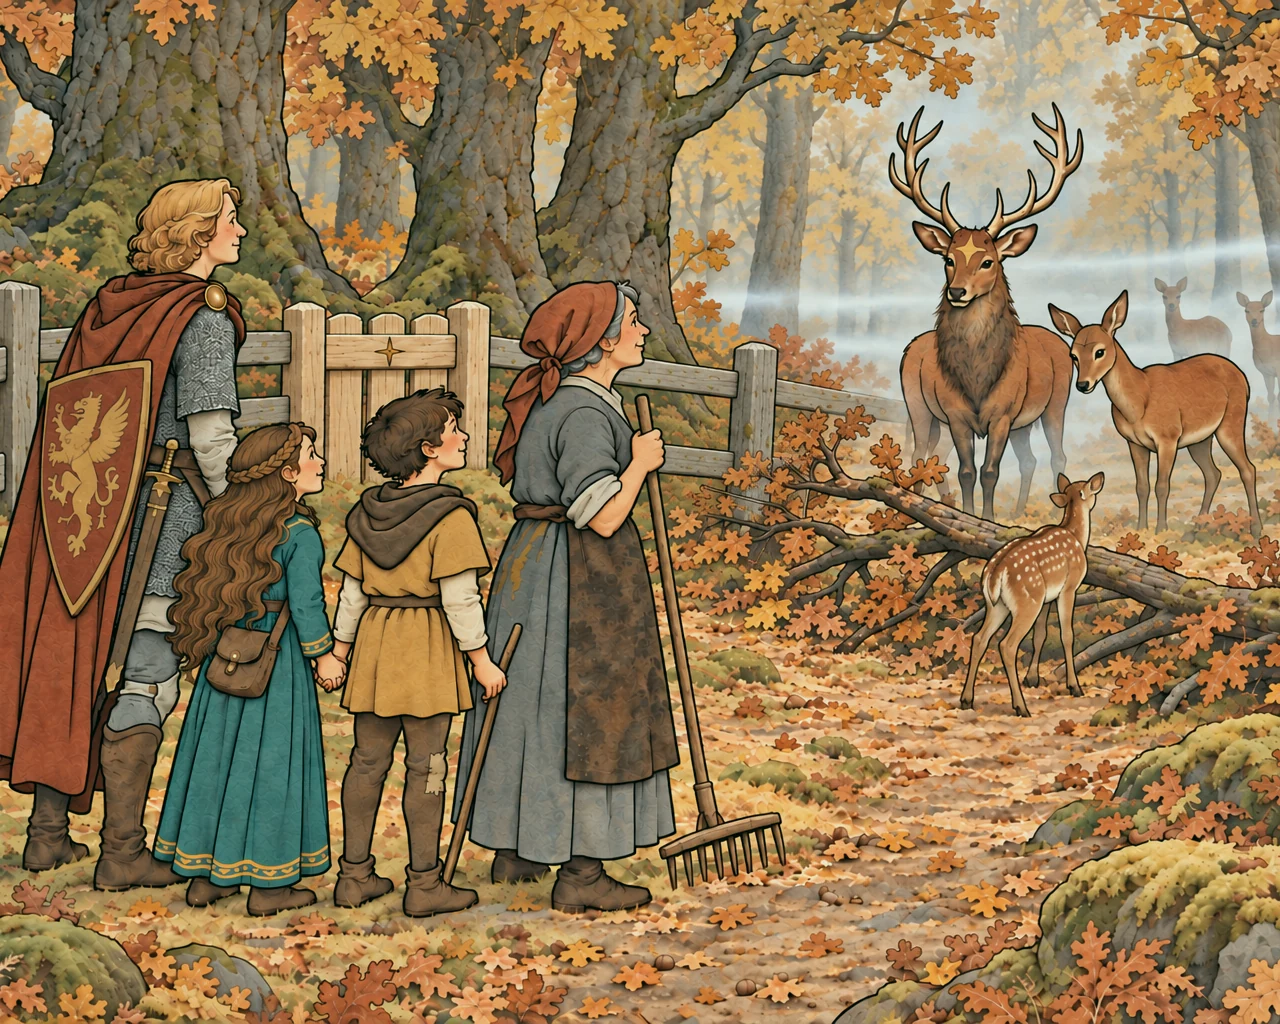
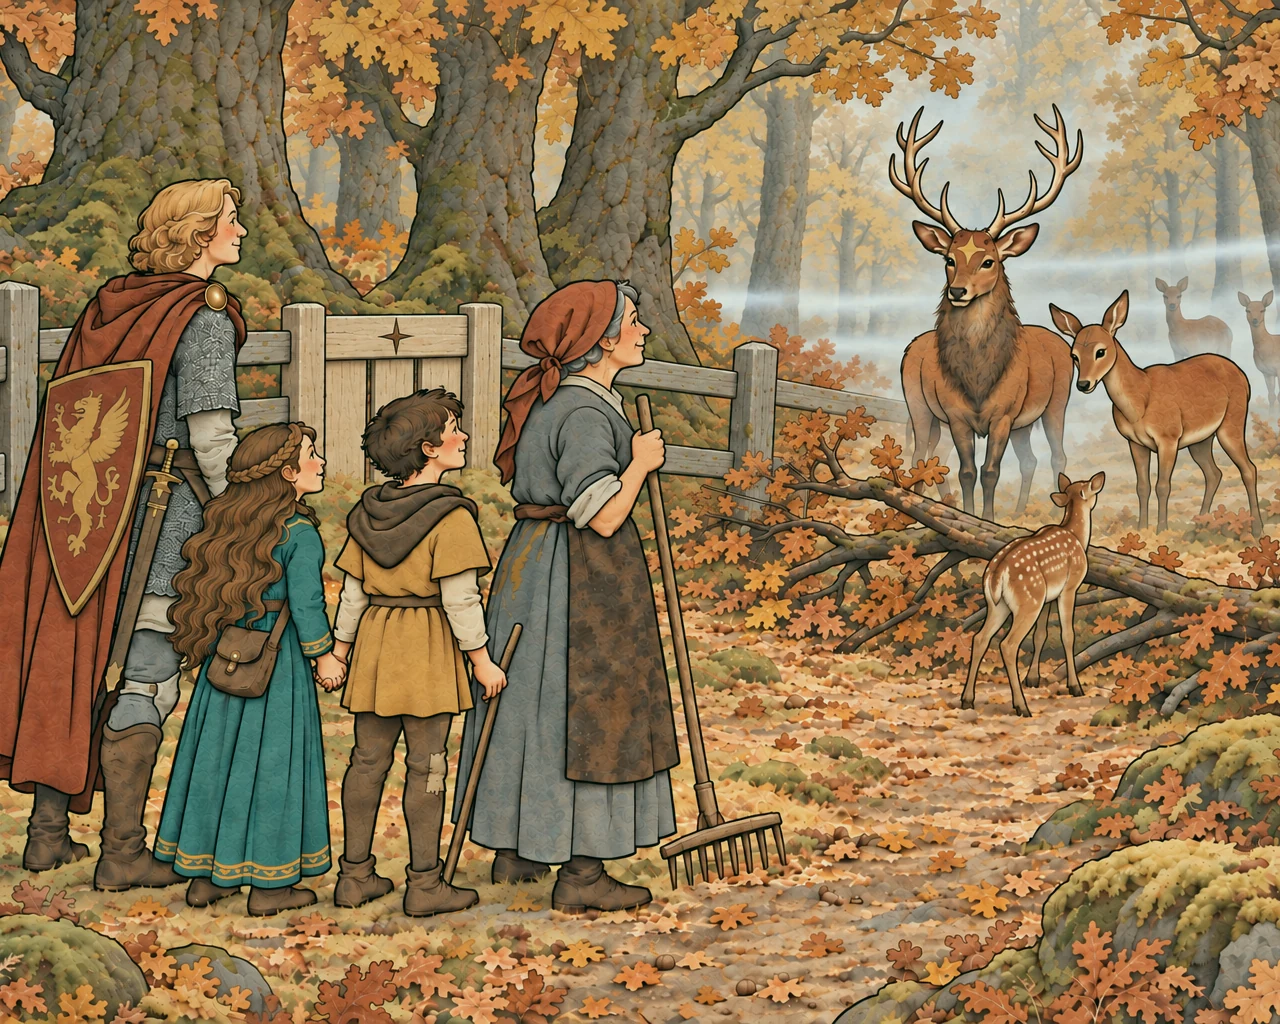
Forest fourth pass after fresh review: carved stars, one gate design, one satchel
Each take changed one region and only that region ships (composites noted in the builder):
p7 the old gate's star split by its crack, Oliwia with one satchel; p8 and p9 help-fawn gates in the
p7 design with a carved, not gold, star; p4 the broken gate's star carved; p10 make-way gate star
recoloured from gold to a groove. Alt texts for p3 follow-piglets (the gate lies on the ground) and p6
(Oliwia thinking) follow the pictures.

diff --git a/src/book/pages.js b/src/book/pages.js
@@ -132,7 +132,7 @@ export const moonhillSpreads = [
 
 // Tale three. The oath's star is carved on one thing only, the crossbar of the Matecznik's gate
 // (docs/DECISIONS.md).
-const p3FollowPiglets = img(`${FO}/p3-follow-piglets.webp`, "Świnki wbiegają przez otwartą furtkę do Matecznika, gdzie stoi Marcin; wyłamana furtka z pękniętą gwiazdką leży w trawie, a Oliwia klęczy z pustą czapeczką żołędzia na dłoni.", "The piglets trot through the open gateway into the Heartwood, where Marcin stands; the broken gate with its cracked star lies in the grass, and Oliwia kneels with an empty acorn cup in her palm.");
+const p3FollowPiglets = img(`${FO}/p3-follow-piglets.webp`, "Świnki wbiegają do Matecznika tam, gdzie stała furtka, a w środku stoi Marcin; wyłamana furtka z pękniętą gwiazdką leży w trawie, a Oliwia klęczy z pustą czapeczką żołędzia na dłoni.", "The piglets trot through the open gateway into the Heartwood, where Marcin stands; the broken gate with its cracked star lies in the grass, and Oliwia kneels with an empty acorn cup in her palm.");
 const p5AskKindly = img(`${FO}/p5-ask-kindly.webp`, "Marcin z ręką na piersi mówi prawdę, Oliwia trzyma go za rękę, Agata kładzie mu dłoń na ramieniu, a Gustaw podnosi wyłamaną furtkę z pękniętą gwiazdką.", "Marcin, a hand on his chest, tells the truth; Oliwia holds his hand, Agata rests hers on his shoulder, and Gustaw lifts the broken gate with its cracked star.");
 const p7GiveSack = img(`${FO}/p7-give-sack.webp`, "Oliwia i Agata sypią żołędzie przez płot, Koniczynka niesie worek Marcina, Gustaw trzyma nową furtkę, a Marcin wycina na jej poprzeczce gwiazdkę dłutkiem i drewnianym młotkiem; obok stoi stara furtka z pękniętą gwiazdką.", "Oliwia and Agata pour acorns over the fence, Koniczynka carries Marcin's sack, Gustaw holds the new gate, and Marcin carves a star on its crossbar with a chisel and a wooden mallet; the old gate with its cracked star leans beside him.");
 const p9MakeWay = img(`${FO}/p9-make-way.webp`, "Jeleń z gwiazdką idzie ścieżką, mgła rozstępuje się przed nim, a za nim idą Oliwia i Marcin ręka w rękę, Gustaw z Koniczynką i Agata; łanie skubią żołędzie w Mateczniku za nową furtką.", "The star stag walks down the path as the mist parts before it; behind it come Oliwia and Marcin hand in hand, Gustaw with Koniczynka, and Agata; the hinds graze on acorns in the Heartwood beyond the new gate.");
@@ -145,7 +145,7 @@ export const forestSpreads = [
   { page: 3, tailpiece: `${OR}/strawberry-snail.webp`, variantFrom: 2, images: { "follow-piglets": p3FollowPiglets, "call-back": img(`${FO}/p3-call-back.webp`, "Marcin stoi ze spuszczoną głową przy wyłamanej furtce Matecznika, świnki kręcą się przy nim; Oliwia klęczy z pustą czapeczką żołędzia na dłoni.", "Marcin stands with his head bowed by the Heartwood's broken gate, the piglets around him; Oliwia kneels with an empty acorn cup in her palm.") } },
   { page: 4, tailpiece: `${OR}/columbine-hare.webp`, images: { default: img(`${FO}/p4.webp`, "Zawstydzony Marcin przy wyłamanej furtce; Oliwia bierze go za rękę, a świnki chowają się za jego nogami.", "Ashamed, Marcin stands by the broken gate; Oliwia takes his hand while the piglets hide behind his legs.") } },
   { page: 5, tailpiece: `${OR}/owl-hazel.webp`, variantFrom: 4, images: { "ask-kindly": p5AskKindly, "show-tracks": img(`${FO}/p5-show-tracks.webp`, "Oliwia klęczy i pokazuje ślady raciczek w ziemi; Marcin z ręką na piersi mówi prawdę, Agata trzyma dłoń na jego ramieniu, a Gustaw podnosi wyłamaną furtkę.", "Oliwia kneels and points to the little hoofprints in the earth; Marcin, a hand on his chest, tells the truth, Agata's hand on his shoulder, and Gustaw lifts the broken gate.") } },
-  { page: 6, tailpiece: `${OR}/fleuron.webp`, images: { default: img(`${FO}/p6.webp`, "Agata opiera dłoń o wyłamaną furtkę z pękniętą gwiazdką; Marcin, Oliwia i Gustaw patrzą na świnki, które w szronie znajdują tylko puste czapeczki.", "Agata rests her hand on the broken gate with its cracked star; Marcin, Oliwia and Gustaw watch the piglets find only empty cups in the frost.") } },
+  { page: 6, tailpiece: `${OR}/fleuron.webp`, images: { default: img(`${FO}/p6.webp`, "Agata opiera dłoń o wyłamaną furtkę z pękniętą gwiazdką; Marcin i Gustaw patrzą na świnki, które w szronie znajdują tylko puste czapeczki, a Oliwia z palcem przy brodzie się zastanawia.", "Agata rests her hand on the broken gate with its cracked star; Marcin and Gustaw watch the piglets find only empty cups in the frost, while Oliwia thinks, a finger on her chin.") } },
   { page: 7, tailpiece: `${OR}/oak-wren.webp`, variantFrom: 6, images: { "give-sack": p7GiveSack, "gather-forest": img(`${FO}/p7-gather-forest.webp`, "Oliwia sypie przez płot żołędzie z torby, a Agata z fartucha; Gustaw trzyma nową furtkę, a Marcin wycina na jej poprzeczce gwiazdkę dłutkiem i drewnianym młotkiem; obok stoi stara furtka z pękniętą gwiazdką.", "Oliwia pours acorns over the fence from her satchel and Agata from her apron; Gustaw holds the new gate while Marcin carves a star on its crossbar with a chisel and a wooden mallet; the old gate with its cracked star leans beside him.") } },
   { page: 8, tailpiece: `${OR}/strawberry-snail.webp`, images: { default: img(`${FO}/p8.webp`, "Z mgły wychodzi jeleń ze złotą gwiazdką i łania; złamany konar odciął od nich jelonka, który stoi sam po tej stronie, a wszyscy patrzą z zachwytem przy nowej furtce; Agata trzyma grabie.", "Out of the mist step the stag with a gold star and the doe; a fallen branch has cut the fawn off from them and it stands alone on this side, while everyone watches in wonder by the new gate, Agata holding her rake.") } },
   { page: 9, tailpiece: `${OR}/hedgehog-clover.webp`, variantFrom: 8, images: { "make-way": p9MakeWay, "help-fawn": img(`${FO}/p9-help-fawn.webp`, "Jeleń z gwiazdką prowadzi ścieżką łanię i jelonka, za nimi idą Oliwia i Marcin ręka w rękę, Gustaw z Koniczynką i Agata; odciągnięty konar leży z boku ścieżki, a w oddali stoi nowa furtka Matecznika.", "The star stag leads the doe and the fawn down the path, followed by Oliwia and Marcin hand in hand, Gustaw with Koniczynka, and Agata; the pulled-away branch lies at the side of the trail, and the Heartwood's new gate stands in the distance.") } },

diff --git a/prototypes/prompts/_build_forest.py b/prototypes/prompts/_build_forest.py
@@ -403,9 +403,40 @@ for pid, old, new, extra in [("fo-p9-make-way", "fo-p9-make-waye", "fo-p9-make-w
           neg=NO_OLD_GATE)
 
 
+# Fourth pass (fresh review of the shipped pictures). The whole-picture regenerations kept drifting the
+# gate, so each take now changes ONE thing and only that region is pasted back into the shipped take
+# (scratchpad composite, like gather-forestc): the rest of every picture stays pixel for pixel.
+CARVED = "the star is a cut groove in the wood, darker brown in its shadow, the same colour family as the wood; never gold, never raised, never painted"
+again("fo-p7-give-sack", "fo-p7-give-sackf", "fo-p7-give-sackg", "everything except the old grey gate's crossbar",
+      "On the OLD grey gate leaning at the right, its crossbar clearly shows the old carved four-pointed star, and the crack runs right THROUGH the middle of that star, splitting it into two halves (" + CARVED + ").",
+      neg="no old gate without a star")
+again("fo-p7-gather-forest", "fo-p7-gather-forestb", "fo-p7-gather-forestd", "everything except Oliwia's bags",
+      "Oliwia has exactly ONE leather satchel on a strap across her body: she has swung it forward over the rail and pours the acorns out of it; there is no second bag at her hip.",
+      neg="no second bag on Oliwia")
+again("fo-p8", "fo-p8f", "fo-p8g", "everything except the new gate in the fence",
+      NEW_GATE + "; the planks end UNDER the crossbar, which closes the gate's top; " + CARVED + ".",
+      neg="no gold star on the gate; no rounded or pointed planks; no planks rising above the crossbar")
+again("fo-p9-help-fawn", "fo-p9-help-fawnc", "fo-p9-help-fawnd", "everything except the new gate in the fence",
+      NEW_GATE + "; the planks end UNDER the crossbar, which closes the gate's top; " + CARVED + ".",
+      neg="no gold star on the gate; no planks rising above the crossbar")
+again("fo-p4", "fo-p4d", "fo-p4e", "everything except the star on the broken gate's crossbar",
+      "The star on the broken gate is the old carved four-pointed star (" + CARVED.replace("brown", "grey-brown") + "), and the crack in the crossbar runs right THROUGH the middle of the star, splitting it into two halves.",
+      neg="no gold or bronze star; no whole star on the broken gate")
+again("fo-p3-follow-piglets", "fo-p3-follow-pigletsd", "fo-p3-follow-pigletse", "everything except where the fence rails pass Gustaw",
+      "Gustaw stands wholly in FRONT of the fence, on our side: both fence rails pass BEHIND his legs and cloak and are hidden by them; no rail crosses in front of any part of him.",
+      neg="no rail in front of Gustaw")
+again("fo-p2", "fo-p2e", "fo-p2f", "everything except the acorns in the foreground",
+      "There are NO whole acorns anywhere in the picture: in the foreground moss lie only a few EMPTY acorn cups and fallen leaves (the piglets have eaten every acorn outside the Heartwood).",
+      neg="no whole acorns")
+
+
 # fo-p7-gather-forestc is not a generation: gather-forestb kept Marcin's old knife and a whole star on
 # the old gate (its prompt predates this pass), so the right side (x >= 990, a 60 px soft seam inside
 # Gustaw's body) is taken from fo-p7-give-sackf, which shares the composition pixel for pixel.
+# Fourth pass, shipped: give-sackg, p8g, p9-help-fawnd and p4e whole (they changed only the asked region).
+# fo-p7-gather-foreste = gather-forestb left, give-sackg right (same seam), Oliwia's box (372,300)-(680,740)
+# from gather-forestd, which had dropped Marcin's mallet. fo-p10-make-wayb = fo-p10-make-way with the gate's
+# gold star recoloured by hand to a brown carved groove (pixels around (566,841)).
 
 
 if __name__ == "__main__":
